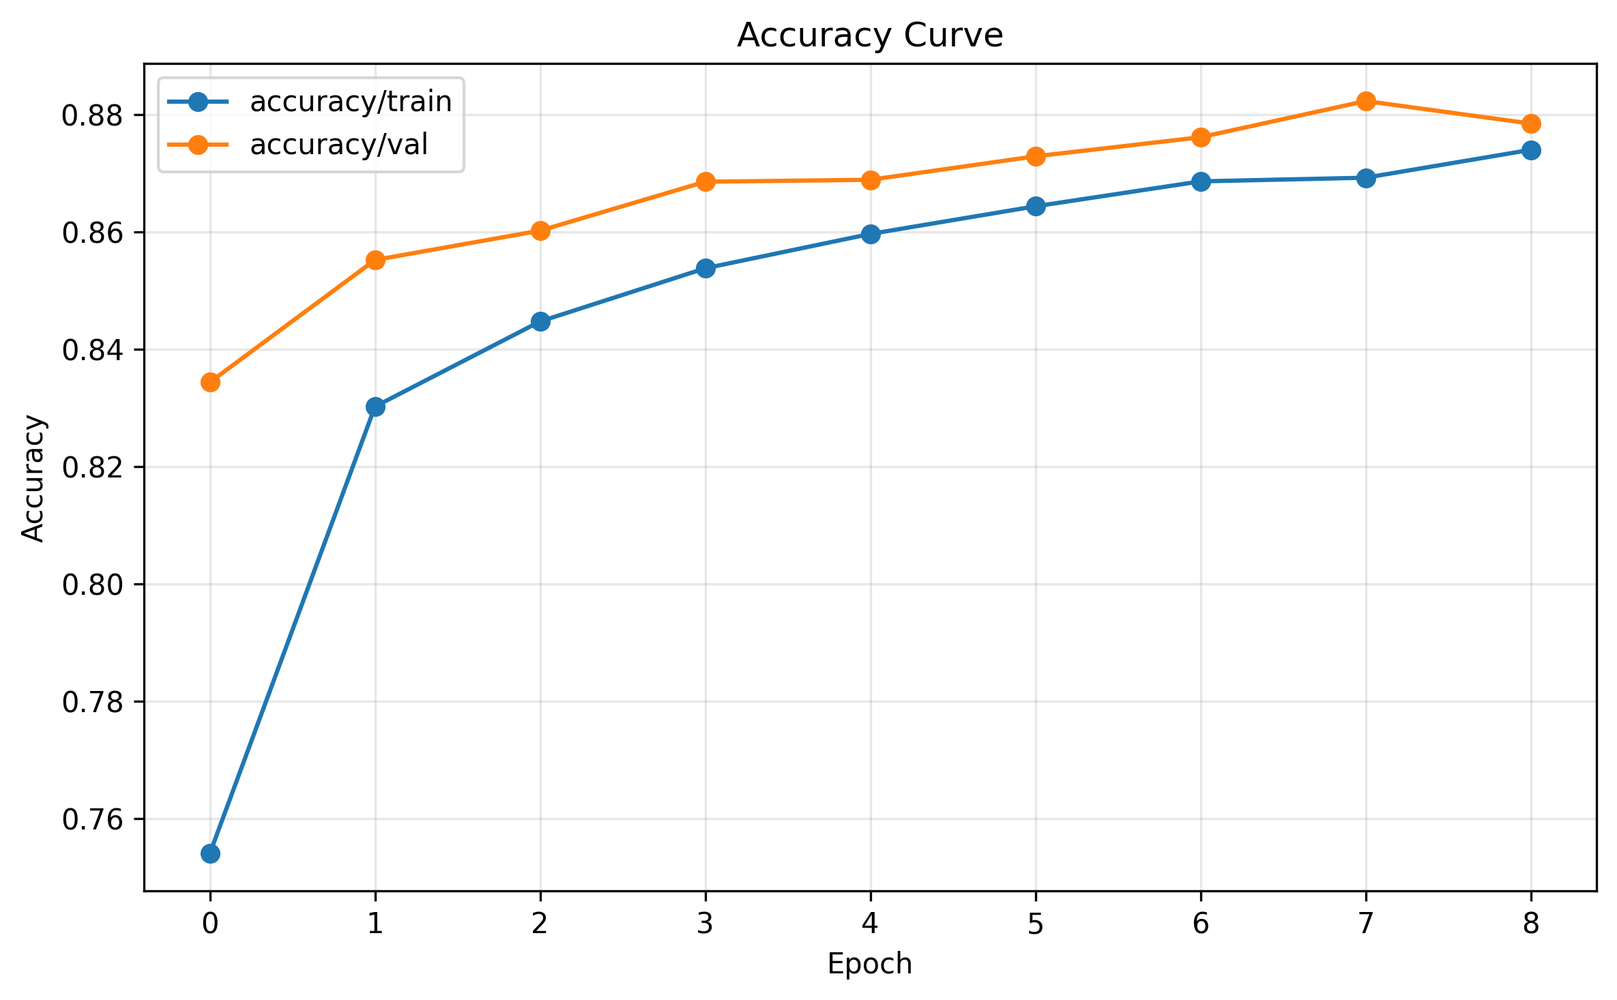
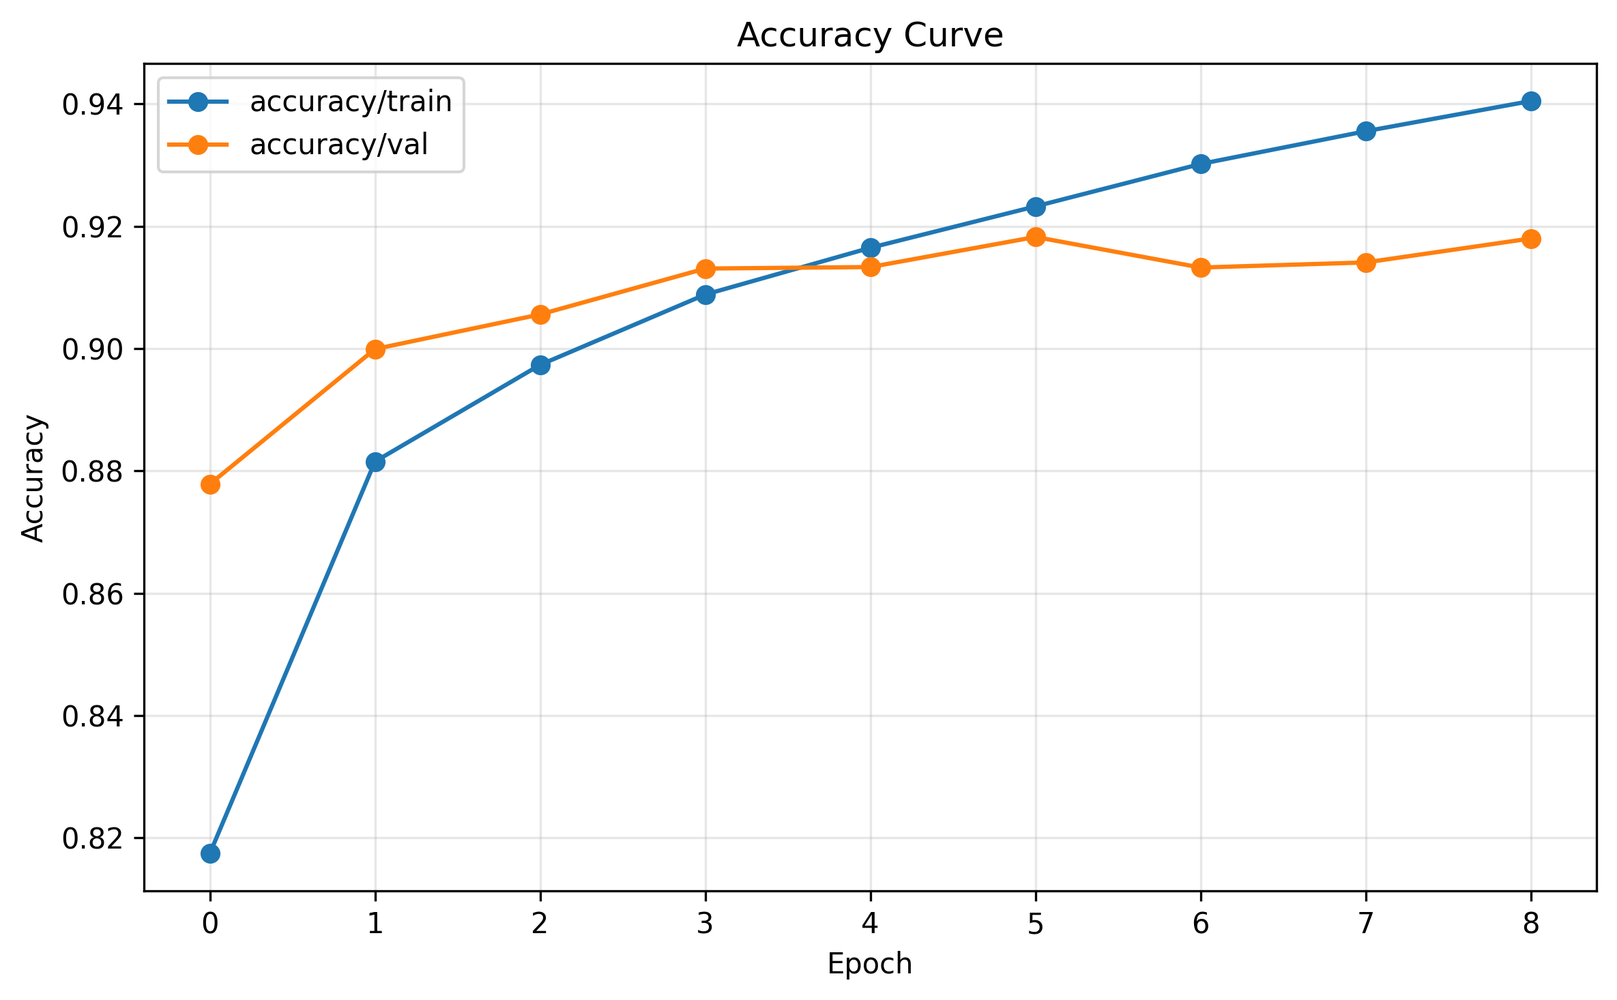
exp simple cnn 6 [update] [skip ci]

diff --git a/dvclive/report.html b/dvclive/report.html
@@ -22,10 +22,10 @@
             <div style="display: flex;justify-content: center;">
                 <table>
 <thead>
-<tr><th>arch_config             </th><th>arch_name   </th><th style="text-align: right;">  epochs</th><th style="text-align: right;">  batch_size</th><th style="text-align: right;">   lr</th><th>optimizer  </th><th style="text-align: right;">  dropout</th><th style="text-align: right;">  total_params</th><th style="text-align: right;">  seed</th></tr>
+<tr><th>arch_config          </th><th>arch_name  </th><th style="text-align: right;">  epochs</th><th style="text-align: right;">  batch_size</th><th style="text-align: right;">   lr</th><th>optimizer  </th><th style="text-align: right;">  dropout</th><th style="text-align: right;">  total_params</th><th style="text-align: right;">  seed</th></tr>
 </thead>
 <tbody>
-<tr><td>configs/simple_dense.yml</td><td>simple_dense</td><td style="text-align: right;">       9</td><td style="text-align: right;">          64</td><td style="text-align: right;">0.001</td><td>adam       </td><td style="text-align: right;">      0.3</td><td style="text-align: right;">        109386</td><td style="text-align: right;">    42</td></tr>
+<tr><td>configs/cnn_basic.yml</td><td>cnn_basic  </td><td style="text-align: right;">       9</td><td style="text-align: right;">          64</td><td style="text-align: right;">0.001</td><td>adam       </td><td style="text-align: right;">      0.3</td><td style="text-align: right;">        421642</td><td style="text-align: right;">    42</td></tr>
 </tbody>
 </table>
             </div>
@@ -39,7 +39,7 @@
 <tr><th style="text-align: right;">  loss.train</th><th style="text-align: right;">  loss.val</th><th style="text-align: right;">  accuracy.train</th><th style="text-align: right;">  accuracy.val</th><th style="text-align: right;">  step</th><th style="text-align: right;">  final_train_accuracy</th><th style="text-align: right;">  final_val_accuracy</th><th style="text-align: right;">  final_train_loss</th><th style="text-align: right;">  final_val_loss</th></tr>
 </thead>
 <tbody>
-<tr><td style="text-align: right;">    0.344352</td><td style="text-align: right;">  0.327398</td><td style="text-align: right;">        0.874021</td><td style="text-align: right;">        0.8785</td><td style="text-align: right;">     8</td><td style="text-align: right;">                 0.874</td><td style="text-align: right;">              0.8785</td><td style="text-align: right;">            0.3444</td><td style="text-align: right;">          0.3274</td></tr>
+<tr><td style="text-align: right;">    0.159938</td><td style="text-align: right;">  0.237717</td><td style="text-align: right;">        0.940479</td><td style="text-align: right;">         0.918</td><td style="text-align: right;">     8</td><td style="text-align: right;">                0.9405</td><td style="text-align: right;">               0.918</td><td style="text-align: right;">            0.1599</td><td style="text-align: right;">          0.2377</td></tr>
 </tbody>
 </table>
             </div>
@@ -47,7 +47,7 @@
 
     <div id = "static_accuracy_train">
         <script type = "text/javascript">
-            var spec = {"$schema": "https://vega.github.io/schema/vega-lite/v5.json", "data": {"values": [{"step": "0", "train": "0.7541249990463257", "rev": "workspace"}, {"step": "1", "train": "0.8302708268165588", "rev": "workspace"}, {"step": "2", "train": "0.8447708487510681", "rev": "workspace"}, {"step": "3", "train": "0.8538333177566528", "rev": "workspace"}, {"step": "4", "train": "0.8596875071525574", "rev": "workspace"}, {"step": "5", "train": "0.8643958568572998", "rev": "workspace"}, {"step": "6", "train": "0.8686458468437195", "rev": "workspace"}, {"step": "7", "train": "0.8692708611488342", "rev": "workspace"}, {"step": "8", "train": "0.8740208148956299", "rev": "workspace"}]}, "title": {"text": "accuracy/train", "anchor": "middle"}, "width": 300, "height": 300, "params": [{"name": "smooth", "value": 0.001, "bind": {"input": "range", "min": 0.001, "max": 1, "step": 0.001}}], "encoding": {"x": {"field": "step", "type": "quantitative", "title": "step"}, "color": {"field": "rev", "scale": {"domain": ["workspace"], "range": ["#945dd6"]}}, "strokeDash": {}}, "layer": [{"layer": [{"params": [{"name": "grid", "select": "interval", "bind": "scales"}], "mark": "line"}, {"transform": [{"filter": {"param": "hover", "empty": false}}], "mark": "point"}], "encoding": {"y": {"field": "train", "type": "quantitative", "title": "train", "scale": {"zero": false}}, "color": {"field": "rev", "type": "nominal"}}, "transform": [{"loess": "train", "on": "step", "groupby": ["rev"], "bandwidth": {"signal": "smooth"}}]}, {"mark": {"type": "line", "opacity": 0.2}, "encoding": {"x": {"field": "step", "type": "quantitative", "title": "step"}, "y": {"field": "train", "type": "quantitative", "title": "train", "scale": {"zero": false}}, "color": {"field": "rev", "type": "nominal"}}}, {"mark": {"type": "circle", "size": 10}, "encoding": {"x": {"aggregate": "max", "field": "step", "type": "quantitative", "title": "step"}, "y": {"aggregate": {"argmax": "step"}, "field": "train", "type": "quantitative", "title": "train", "scale": {"zero": false}}, "color": {"field": "rev", "type": "nominal"}}}, {"transform": [{"calculate": "datum.rev", "as": "pivot_field"}, {"pivot": "pivot_field", "op": "mean", "value": "train", "groupby": ["step"]}], "mark": {"type": "rule", "tooltip": {"content": "data"}, "stroke": "grey"}, "encoding": {"opacity": {"condition": {"value": 0.3, "param": "hover", "empty": false}, "value": 0}}, "params": [{"name": "hover", "select": {"type": "point", "fields": ["step"], "nearest": true, "on": "mouseover", "clear": "mouseout"}}]}]};
+            var spec = {"$schema": "https://vega.github.io/schema/vega-lite/v5.json", "data": {"values": [{"step": "0", "train": "0.8174375295639038", "rev": "workspace"}, {"step": "1", "train": "0.8815208077430725", "rev": "workspace"}, {"step": "2", "train": "0.8973333239555359", "rev": "workspace"}, {"step": "3", "train": "0.9088333249092102", "rev": "workspace"}, {"step": "4", "train": "0.9164791703224182", "rev": "workspace"}, {"step": "5", "train": "0.9232500195503235", "rev": "workspace"}, {"step": "6", "train": "0.9301875233650208", "rev": "workspace"}, {"step": "7", "train": "0.9355416893959045", "rev": "workspace"}, {"step": "8", "train": "0.9404791593551636", "rev": "workspace"}]}, "title": {"text": "accuracy/train", "anchor": "middle"}, "width": 300, "height": 300, "params": [{"name": "smooth", "value": 0.001, "bind": {"input": "range", "min": 0.001, "max": 1, "step": 0.001}}], "encoding": {"x": {"field": "step", "type": "quantitative", "title": "step"}, "color": {"field": "rev", "scale": {"domain": ["workspace"], "range": ["#945dd6"]}}, "strokeDash": {}}, "layer": [{"layer": [{"params": [{"name": "grid", "select": "interval", "bind": "scales"}], "mark": "line"}, {"transform": [{"filter": {"param": "hover", "empty": false}}], "mark": "point"}], "encoding": {"y": {"field": "train", "type": "quantitative", "title": "train", "scale": {"zero": false}}, "color": {"field": "rev", "type": "nominal"}}, "transform": [{"loess": "train", "on": "step", "groupby": ["rev"], "bandwidth": {"signal": "smooth"}}]}, {"mark": {"type": "line", "opacity": 0.2}, "encoding": {"x": {"field": "step", "type": "quantitative", "title": "step"}, "y": {"field": "train", "type": "quantitative", "title": "train", "scale": {"zero": false}}, "color": {"field": "rev", "type": "nominal"}}}, {"mark": {"type": "circle", "size": 10}, "encoding": {"x": {"aggregate": "max", "field": "step", "type": "quantitative", "title": "step"}, "y": {"aggregate": {"argmax": "step"}, "field": "train", "type": "quantitative", "title": "train", "scale": {"zero": false}}, "color": {"field": "rev", "type": "nominal"}}}, {"transform": [{"calculate": "datum.rev", "as": "pivot_field"}, {"pivot": "pivot_field", "op": "mean", "value": "train", "groupby": ["step"]}], "mark": {"type": "rule", "tooltip": {"content": "data"}, "stroke": "grey"}, "encoding": {"opacity": {"condition": {"value": 0.3, "param": "hover", "empty": false}, "value": 0}}, "params": [{"name": "hover", "select": {"type": "point", "fields": ["step"], "nearest": true, "on": "mouseover", "clear": "mouseout"}}]}]};
             vegaEmbed('#static_accuracy_train', spec);
         </script>
     </div>
@@ -55,7 +55,7 @@
 
     <div id = "static_accuracy_val">
         <script type = "text/javascript">
-            var spec = {"$schema": "https://vega.github.io/schema/vega-lite/v5.json", "data": {"values": [{"step": "0", "val": "0.8344166874885559", "rev": "workspace"}, {"step": "1", "val": "0.8552500009536743", "rev": "workspace"}, {"step": "2", "val": "0.8602499961853027", "rev": "workspace"}, {"step": "3", "val": "0.8685833215713501", "rev": "workspace"}, {"step": "4", "val": "0.8689166903495789", "rev": "workspace"}, {"step": "5", "val": "0.8729166388511658", "rev": "workspace"}, {"step": "6", "val": "0.8761666417121887", "rev": "workspace"}, {"step": "7", "val": "0.8823333382606506", "rev": "workspace"}, {"step": "8", "val": "0.8784999847412109", "rev": "workspace"}]}, "title": {"text": "accuracy/val", "anchor": "middle"}, "width": 300, "height": 300, "params": [{"name": "smooth", "value": 0.001, "bind": {"input": "range", "min": 0.001, "max": 1, "step": 0.001}}], "encoding": {"x": {"field": "step", "type": "quantitative", "title": "step"}, "color": {"field": "rev", "scale": {"domain": ["workspace"], "range": ["#945dd6"]}}, "strokeDash": {}}, "layer": [{"layer": [{"params": [{"name": "grid", "select": "interval", "bind": "scales"}], "mark": "line"}, {"transform": [{"filter": {"param": "hover", "empty": false}}], "mark": "point"}], "encoding": {"y": {"field": "val", "type": "quantitative", "title": "val", "scale": {"zero": false}}, "color": {"field": "rev", "type": "nominal"}}, "transform": [{"loess": "val", "on": "step", "groupby": ["rev"], "bandwidth": {"signal": "smooth"}}]}, {"mark": {"type": "line", "opacity": 0.2}, "encoding": {"x": {"field": "step", "type": "quantitative", "title": "step"}, "y": {"field": "val", "type": "quantitative", "title": "val", "scale": {"zero": false}}, "color": {"field": "rev", "type": "nominal"}}}, {"mark": {"type": "circle", "size": 10}, "encoding": {"x": {"aggregate": "max", "field": "step", "type": "quantitative", "title": "step"}, "y": {"aggregate": {"argmax": "step"}, "field": "val", "type": "quantitative", "title": "val", "scale": {"zero": false}}, "color": {"field": "rev", "type": "nominal"}}}, {"transform": [{"calculate": "datum.rev", "as": "pivot_field"}, {"pivot": "pivot_field", "op": "mean", "value": "val", "groupby": ["step"]}], "mark": {"type": "rule", "tooltip": {"content": "data"}, "stroke": "grey"}, "encoding": {"opacity": {"condition": {"value": 0.3, "param": "hover", "empty": false}, "value": 0}}, "params": [{"name": "hover", "select": {"type": "point", "fields": ["step"], "nearest": true, "on": "mouseover", "clear": "mouseout"}}]}]};
+            var spec = {"$schema": "https://vega.github.io/schema/vega-lite/v5.json", "data": {"values": [{"step": "0", "val": "0.8778333067893982", "rev": "workspace"}, {"step": "1", "val": "0.8999166488647461", "rev": "workspace"}, {"step": "2", "val": "0.9055833220481873", "rev": "workspace"}, {"step": "3", "val": "0.9130833148956299", "rev": "workspace"}, {"step": "4", "val": "0.9133333563804626", "rev": "workspace"}, {"step": "5", "val": "0.9182500243186951", "rev": "workspace"}, {"step": "6", "val": "0.9132500290870667", "rev": "workspace"}, {"step": "7", "val": "0.9140833616256714", "rev": "workspace"}, {"step": "8", "val": "0.9179999828338623", "rev": "workspace"}]}, "title": {"text": "accuracy/val", "anchor": "middle"}, "width": 300, "height": 300, "params": [{"name": "smooth", "value": 0.001, "bind": {"input": "range", "min": 0.001, "max": 1, "step": 0.001}}], "encoding": {"x": {"field": "step", "type": "quantitative", "title": "step"}, "color": {"field": "rev", "scale": {"domain": ["workspace"], "range": ["#945dd6"]}}, "strokeDash": {}}, "layer": [{"layer": [{"params": [{"name": "grid", "select": "interval", "bind": "scales"}], "mark": "line"}, {"transform": [{"filter": {"param": "hover", "empty": false}}], "mark": "point"}], "encoding": {"y": {"field": "val", "type": "quantitative", "title": "val", "scale": {"zero": false}}, "color": {"field": "rev", "type": "nominal"}}, "transform": [{"loess": "val", "on": "step", "groupby": ["rev"], "bandwidth": {"signal": "smooth"}}]}, {"mark": {"type": "line", "opacity": 0.2}, "encoding": {"x": {"field": "step", "type": "quantitative", "title": "step"}, "y": {"field": "val", "type": "quantitative", "title": "val", "scale": {"zero": false}}, "color": {"field": "rev", "type": "nominal"}}}, {"mark": {"type": "circle", "size": 10}, "encoding": {"x": {"aggregate": "max", "field": "step", "type": "quantitative", "title": "step"}, "y": {"aggregate": {"argmax": "step"}, "field": "val", "type": "quantitative", "title": "val", "scale": {"zero": false}}, "color": {"field": "rev", "type": "nominal"}}}, {"transform": [{"calculate": "datum.rev", "as": "pivot_field"}, {"pivot": "pivot_field", "op": "mean", "value": "val", "groupby": ["step"]}], "mark": {"type": "rule", "tooltip": {"content": "data"}, "stroke": "grey"}, "encoding": {"opacity": {"condition": {"value": 0.3, "param": "hover", "empty": false}, "value": 0}}, "params": [{"name": "hover", "select": {"type": "point", "fields": ["step"], "nearest": true, "on": "mouseover", "clear": "mouseout"}}]}]};
             vegaEmbed('#static_accuracy_val', spec);
         </script>
     </div>
@@ -63,7 +63,7 @@
 
     <div id = "static_loss_train">
         <script type = "text/javascript">
-            var spec = {"$schema": "https://vega.github.io/schema/vega-lite/v5.json", "data": {"values": [{"step": "0", "train": "0.7025303840637207", "rev": "workspace"}, {"step": "1", "train": "0.48057612776756287", "rev": "workspace"}, {"step": "2", "train": "0.43436726927757263", "rev": "workspace"}, {"step": "3", "train": "0.40764883160591125", "rev": "workspace"}, {"step": "4", "train": "0.3907375633716583", "rev": "workspace"}, {"step": "5", "train": "0.3756207823753357", "rev": "workspace"}, {"step": "6", "train": "0.3618605434894562", "rev": "workspace"}, {"step": "7", "train": "0.355182945728302", "rev": "workspace"}, {"step": "8", "train": "0.344352126121521", "rev": "workspace"}]}, "title": {"text": "loss/train", "anchor": "middle"}, "width": 300, "height": 300, "params": [{"name": "smooth", "value": 0.001, "bind": {"input": "range", "min": 0.001, "max": 1, "step": 0.001}}], "encoding": {"x": {"field": "step", "type": "quantitative", "title": "step"}, "color": {"field": "rev", "scale": {"domain": ["workspace"], "range": ["#945dd6"]}}, "strokeDash": {}}, "layer": [{"layer": [{"params": [{"name": "grid", "select": "interval", "bind": "scales"}], "mark": "line"}, {"transform": [{"filter": {"param": "hover", "empty": false}}], "mark": "point"}], "encoding": {"y": {"field": "train", "type": "quantitative", "title": "train", "scale": {"zero": false}}, "color": {"field": "rev", "type": "nominal"}}, "transform": [{"loess": "train", "on": "step", "groupby": ["rev"], "bandwidth": {"signal": "smooth"}}]}, {"mark": {"type": "line", "opacity": 0.2}, "encoding": {"x": {"field": "step", "type": "quantitative", "title": "step"}, "y": {"field": "train", "type": "quantitative", "title": "train", "scale": {"zero": false}}, "color": {"field": "rev", "type": "nominal"}}}, {"mark": {"type": "circle", "size": 10}, "encoding": {"x": {"aggregate": "max", "field": "step", "type": "quantitative", "title": "step"}, "y": {"aggregate": {"argmax": "step"}, "field": "train", "type": "quantitative", "title": "train", "scale": {"zero": false}}, "color": {"field": "rev", "type": "nominal"}}}, {"transform": [{"calculate": "datum.rev", "as": "pivot_field"}, {"pivot": "pivot_field", "op": "mean", "value": "train", "groupby": ["step"]}], "mark": {"type": "rule", "tooltip": {"content": "data"}, "stroke": "grey"}, "encoding": {"opacity": {"condition": {"value": 0.3, "param": "hover", "empty": false}, "value": 0}}, "params": [{"name": "hover", "select": {"type": "point", "fields": ["step"], "nearest": true, "on": "mouseover", "clear": "mouseout"}}]}]};
+            var spec = {"$schema": "https://vega.github.io/schema/vega-lite/v5.json", "data": {"values": [{"step": "0", "train": "0.5144253969192505", "rev": "workspace"}, {"step": "1", "train": "0.3309691250324249", "rev": "workspace"}, {"step": "2", "train": "0.2842165529727936", "rev": "workspace"}, {"step": "3", "train": "0.2529734969139099", "rev": "workspace"}, {"step": "4", "train": "0.22914645075798035", "rev": "workspace"}, {"step": "5", "train": "0.2098913937807083", "rev": "workspace"}, {"step": "6", "train": "0.18975374102592468", "rev": "workspace"}, {"step": "7", "train": "0.17239493131637573", "rev": "workspace"}, {"step": "8", "train": "0.15993791818618774", "rev": "workspace"}]}, "title": {"text": "loss/train", "anchor": "middle"}, "width": 300, "height": 300, "params": [{"name": "smooth", "value": 0.001, "bind": {"input": "range", "min": 0.001, "max": 1, "step": 0.001}}], "encoding": {"x": {"field": "step", "type": "quantitative", "title": "step"}, "color": {"field": "rev", "scale": {"domain": ["workspace"], "range": ["#945dd6"]}}, "strokeDash": {}}, "layer": [{"layer": [{"params": [{"name": "grid", "select": "interval", "bind": "scales"}], "mark": "line"}, {"transform": [{"filter": {"param": "hover", "empty": false}}], "mark": "point"}], "encoding": {"y": {"field": "train", "type": "quantitative", "title": "train", "scale": {"zero": false}}, "color": {"field": "rev", "type": "nominal"}}, "transform": [{"loess": "train", "on": "step", "groupby": ["rev"], "bandwidth": {"signal": "smooth"}}]}, {"mark": {"type": "line", "opacity": 0.2}, "encoding": {"x": {"field": "step", "type": "quantitative", "title": "step"}, "y": {"field": "train", "type": "quantitative", "title": "train", "scale": {"zero": false}}, "color": {"field": "rev", "type": "nominal"}}}, {"mark": {"type": "circle", "size": 10}, "encoding": {"x": {"aggregate": "max", "field": "step", "type": "quantitative", "title": "step"}, "y": {"aggregate": {"argmax": "step"}, "field": "train", "type": "quantitative", "title": "train", "scale": {"zero": false}}, "color": {"field": "rev", "type": "nominal"}}}, {"transform": [{"calculate": "datum.rev", "as": "pivot_field"}, {"pivot": "pivot_field", "op": "mean", "value": "train", "groupby": ["step"]}], "mark": {"type": "rule", "tooltip": {"content": "data"}, "stroke": "grey"}, "encoding": {"opacity": {"condition": {"value": 0.3, "param": "hover", "empty": false}, "value": 0}}, "params": [{"name": "hover", "select": {"type": "point", "fields": ["step"], "nearest": true, "on": "mouseover", "clear": "mouseout"}}]}]};
             vegaEmbed('#static_loss_train', spec);
         </script>
     </div>
@@ -71,7 +71,7 @@
 
     <div id = "static_loss_val">
         <script type = "text/javascript">
-            var spec = {"$schema": "https://vega.github.io/schema/vega-lite/v5.json", "data": {"values": [{"step": "0", "val": "0.45038557052612305", "rev": "workspace"}, {"step": "1", "val": "0.3895358741283417", "rev": "workspace"}, {"step": "2", "val": "0.3772341012954712", "rev": "workspace"}, {"step": "3", "val": "0.35837283730506897", "rev": "workspace"}, {"step": "4", "val": "0.3471146523952484", "rev": "workspace"}, {"step": "5", "val": "0.3437040150165558", "rev": "workspace"}, {"step": "6", "val": "0.3358270525932312", "rev": "workspace"}, {"step": "7", "val": "0.32935860753059387", "rev": "workspace"}, {"step": "8", "val": "0.32739755511283875", "rev": "workspace"}]}, "title": {"text": "loss/val", "anchor": "middle"}, "width": 300, "height": 300, "params": [{"name": "smooth", "value": 0.001, "bind": {"input": "range", "min": 0.001, "max": 1, "step": 0.001}}], "encoding": {"x": {"field": "step", "type": "quantitative", "title": "step"}, "color": {"field": "rev", "scale": {"domain": ["workspace"], "range": ["#945dd6"]}}, "strokeDash": {}}, "layer": [{"layer": [{"params": [{"name": "grid", "select": "interval", "bind": "scales"}], "mark": "line"}, {"transform": [{"filter": {"param": "hover", "empty": false}}], "mark": "point"}], "encoding": {"y": {"field": "val", "type": "quantitative", "title": "val", "scale": {"zero": false}}, "color": {"field": "rev", "type": "nominal"}}, "transform": [{"loess": "val", "on": "step", "groupby": ["rev"], "bandwidth": {"signal": "smooth"}}]}, {"mark": {"type": "line", "opacity": 0.2}, "encoding": {"x": {"field": "step", "type": "quantitative", "title": "step"}, "y": {"field": "val", "type": "quantitative", "title": "val", "scale": {"zero": false}}, "color": {"field": "rev", "type": "nominal"}}}, {"mark": {"type": "circle", "size": 10}, "encoding": {"x": {"aggregate": "max", "field": "step", "type": "quantitative", "title": "step"}, "y": {"aggregate": {"argmax": "step"}, "field": "val", "type": "quantitative", "title": "val", "scale": {"zero": false}}, "color": {"field": "rev", "type": "nominal"}}}, {"transform": [{"calculate": "datum.rev", "as": "pivot_field"}, {"pivot": "pivot_field", "op": "mean", "value": "val", "groupby": ["step"]}], "mark": {"type": "rule", "tooltip": {"content": "data"}, "stroke": "grey"}, "encoding": {"opacity": {"condition": {"value": 0.3, "param": "hover", "empty": false}, "value": 0}}, "params": [{"name": "hover", "select": {"type": "point", "fields": ["step"], "nearest": true, "on": "mouseover", "clear": "mouseout"}}]}]};
+            var spec = {"$schema": "https://vega.github.io/schema/vega-lite/v5.json", "data": {"values": [{"step": "0", "val": "0.330069899559021", "rev": "workspace"}, {"step": "1", "val": "0.2735147476196289", "rev": "workspace"}, {"step": "2", "val": "0.2571297585964203", "rev": "workspace"}, {"step": "3", "val": "0.23611561954021454", "rev": "workspace"}, {"step": "4", "val": "0.23419663310050964", "rev": "workspace"}, {"step": "5", "val": "0.22581197321414948", "rev": "workspace"}, {"step": "6", "val": "0.24192652106285095", "rev": "workspace"}, {"step": "7", "val": "0.2378045618534088", "rev": "workspace"}, {"step": "8", "val": "0.23771701753139496", "rev": "workspace"}]}, "title": {"text": "loss/val", "anchor": "middle"}, "width": 300, "height": 300, "params": [{"name": "smooth", "value": 0.001, "bind": {"input": "range", "min": 0.001, "max": 1, "step": 0.001}}], "encoding": {"x": {"field": "step", "type": "quantitative", "title": "step"}, "color": {"field": "rev", "scale": {"domain": ["workspace"], "range": ["#945dd6"]}}, "strokeDash": {}}, "layer": [{"layer": [{"params": [{"name": "grid", "select": "interval", "bind": "scales"}], "mark": "line"}, {"transform": [{"filter": {"param": "hover", "empty": false}}], "mark": "point"}], "encoding": {"y": {"field": "val", "type": "quantitative", "title": "val", "scale": {"zero": false}}, "color": {"field": "rev", "type": "nominal"}}, "transform": [{"loess": "val", "on": "step", "groupby": ["rev"], "bandwidth": {"signal": "smooth"}}]}, {"mark": {"type": "line", "opacity": 0.2}, "encoding": {"x": {"field": "step", "type": "quantitative", "title": "step"}, "y": {"field": "val", "type": "quantitative", "title": "val", "scale": {"zero": false}}, "color": {"field": "rev", "type": "nominal"}}}, {"mark": {"type": "circle", "size": 10}, "encoding": {"x": {"aggregate": "max", "field": "step", "type": "quantitative", "title": "step"}, "y": {"aggregate": {"argmax": "step"}, "field": "val", "type": "quantitative", "title": "val", "scale": {"zero": false}}, "color": {"field": "rev", "type": "nominal"}}}, {"transform": [{"calculate": "datum.rev", "as": "pivot_field"}, {"pivot": "pivot_field", "op": "mean", "value": "val", "groupby": ["step"]}], "mark": {"type": "rule", "tooltip": {"content": "data"}, "stroke": "grey"}, "encoding": {"opacity": {"condition": {"value": 0.3, "param": "hover", "empty": false}, "value": 0}}, "params": [{"name": "hover", "select": {"type": "point", "fields": ["step"], "nearest": true, "on": "mouseover", "clear": "mouseout"}}]}]};
             vegaEmbed('#static_loss_val', spec);
         </script>
     </div>
